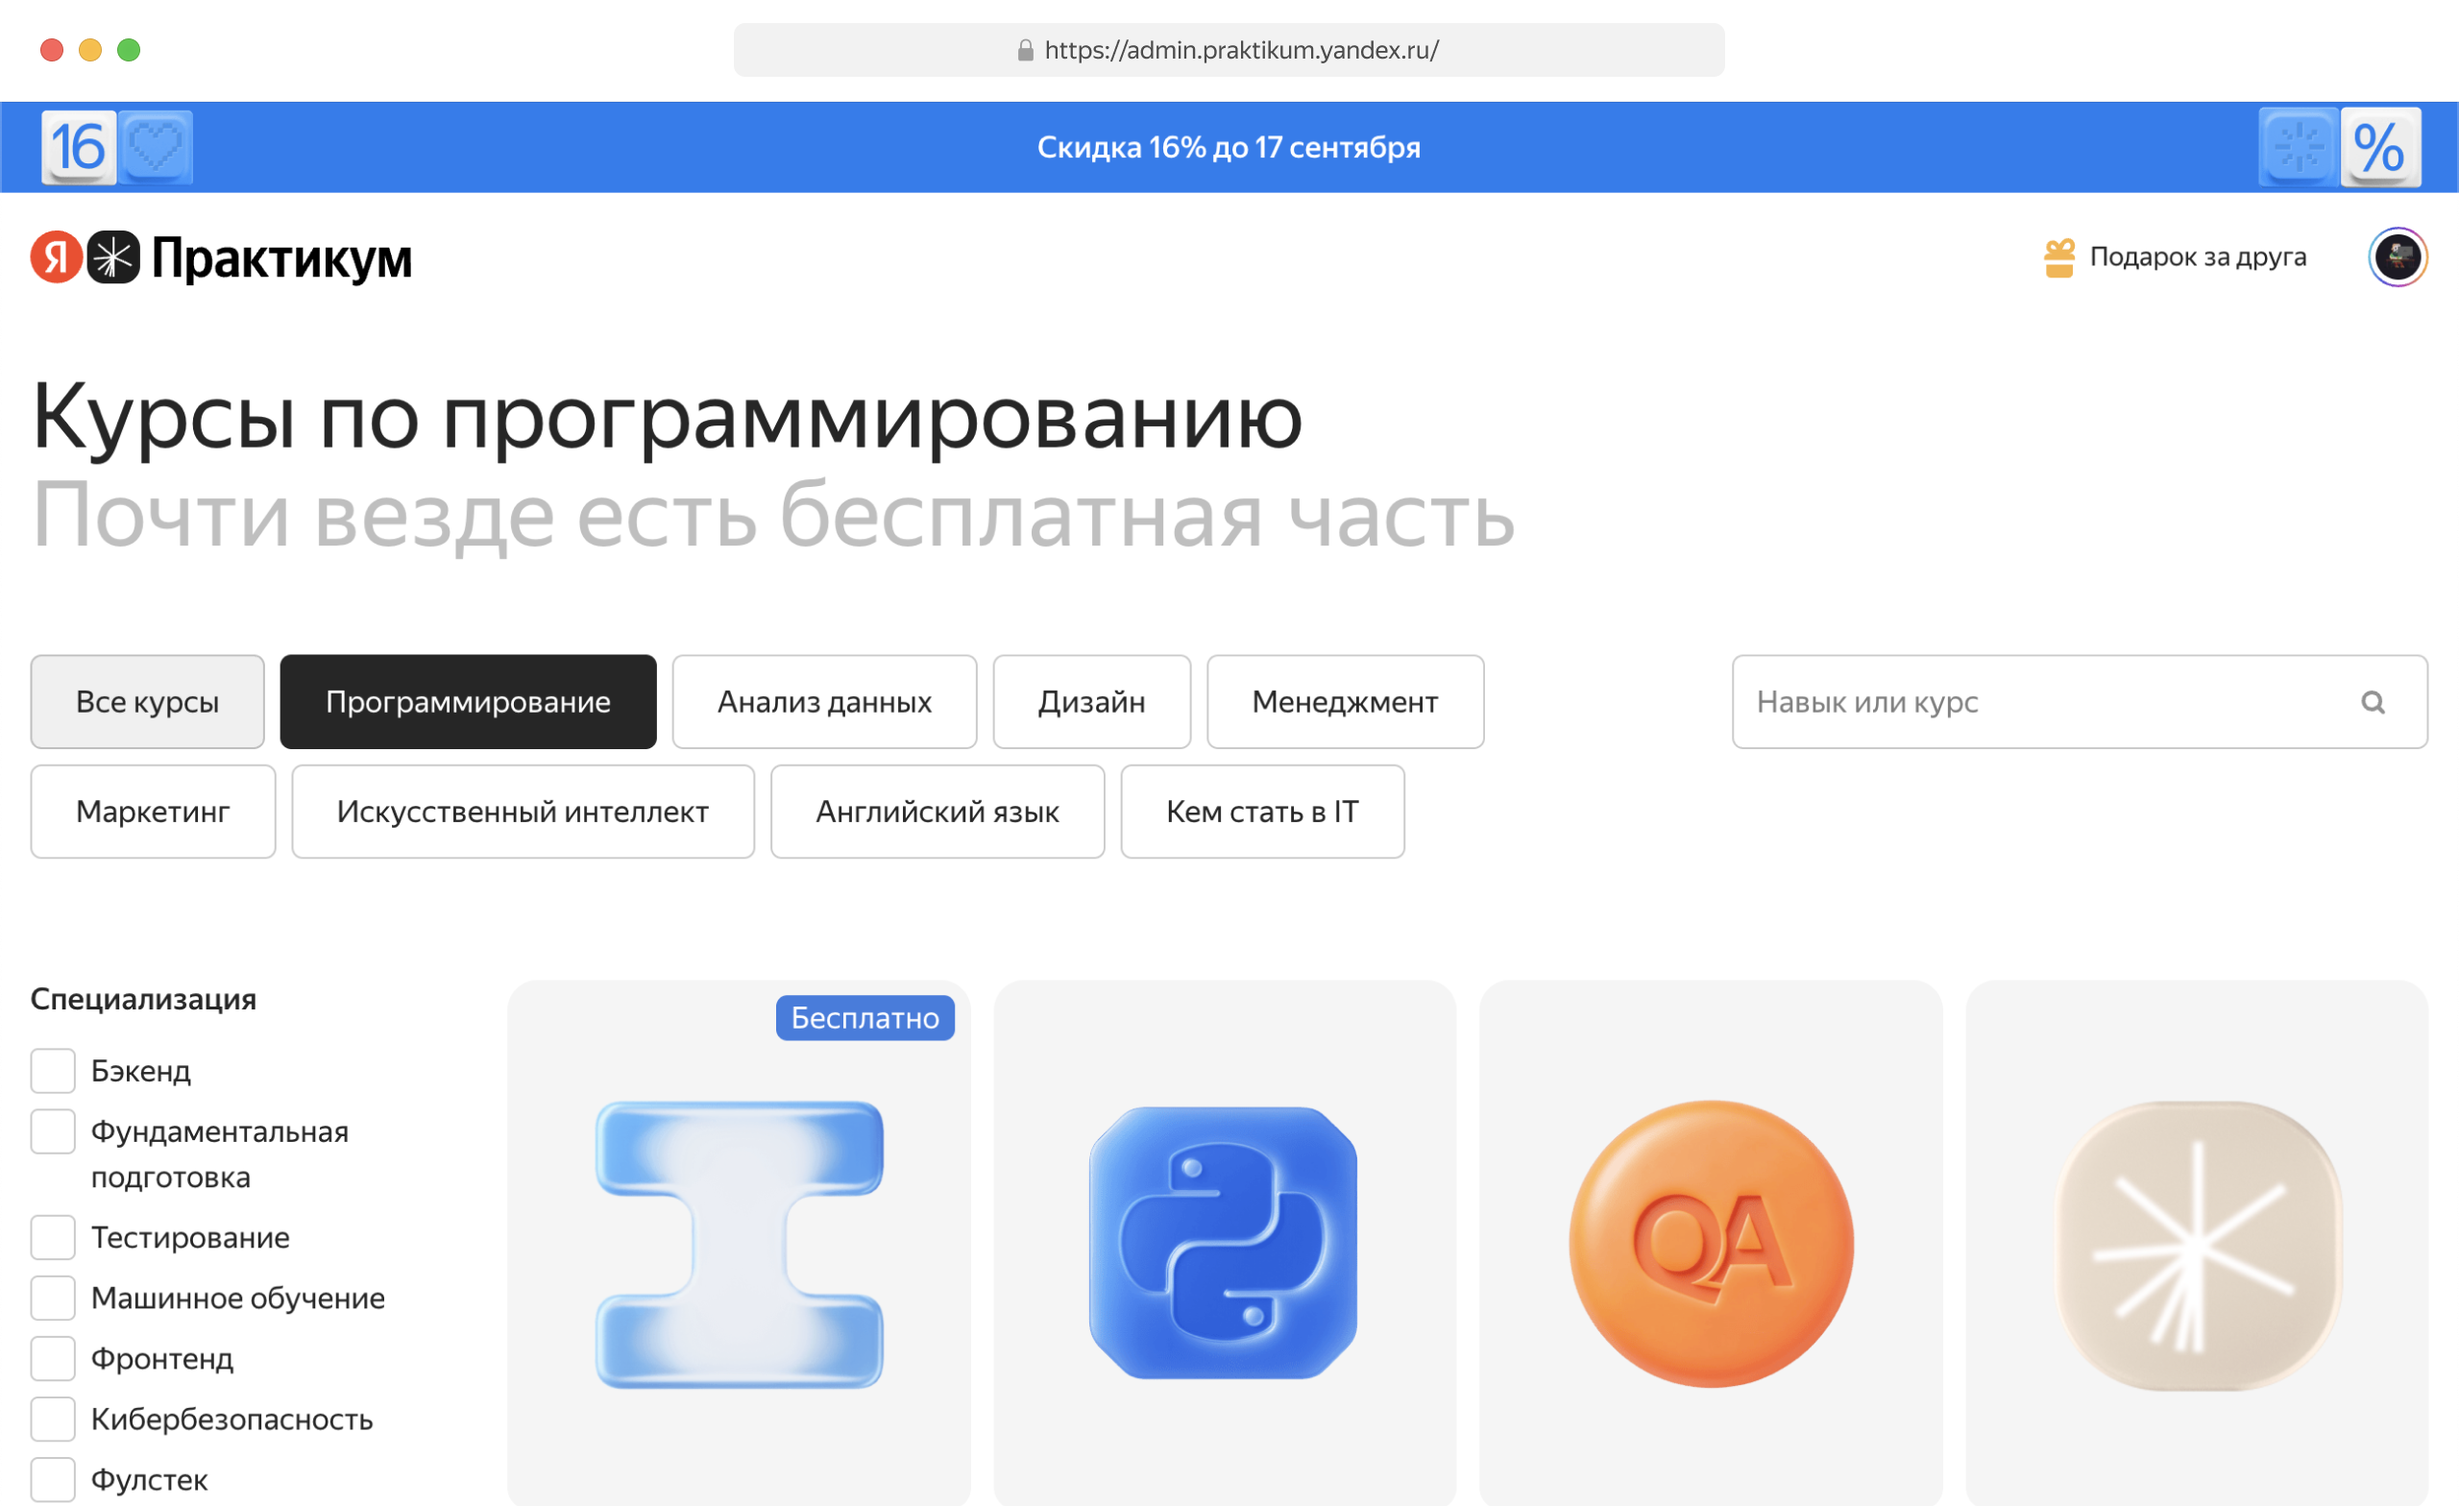
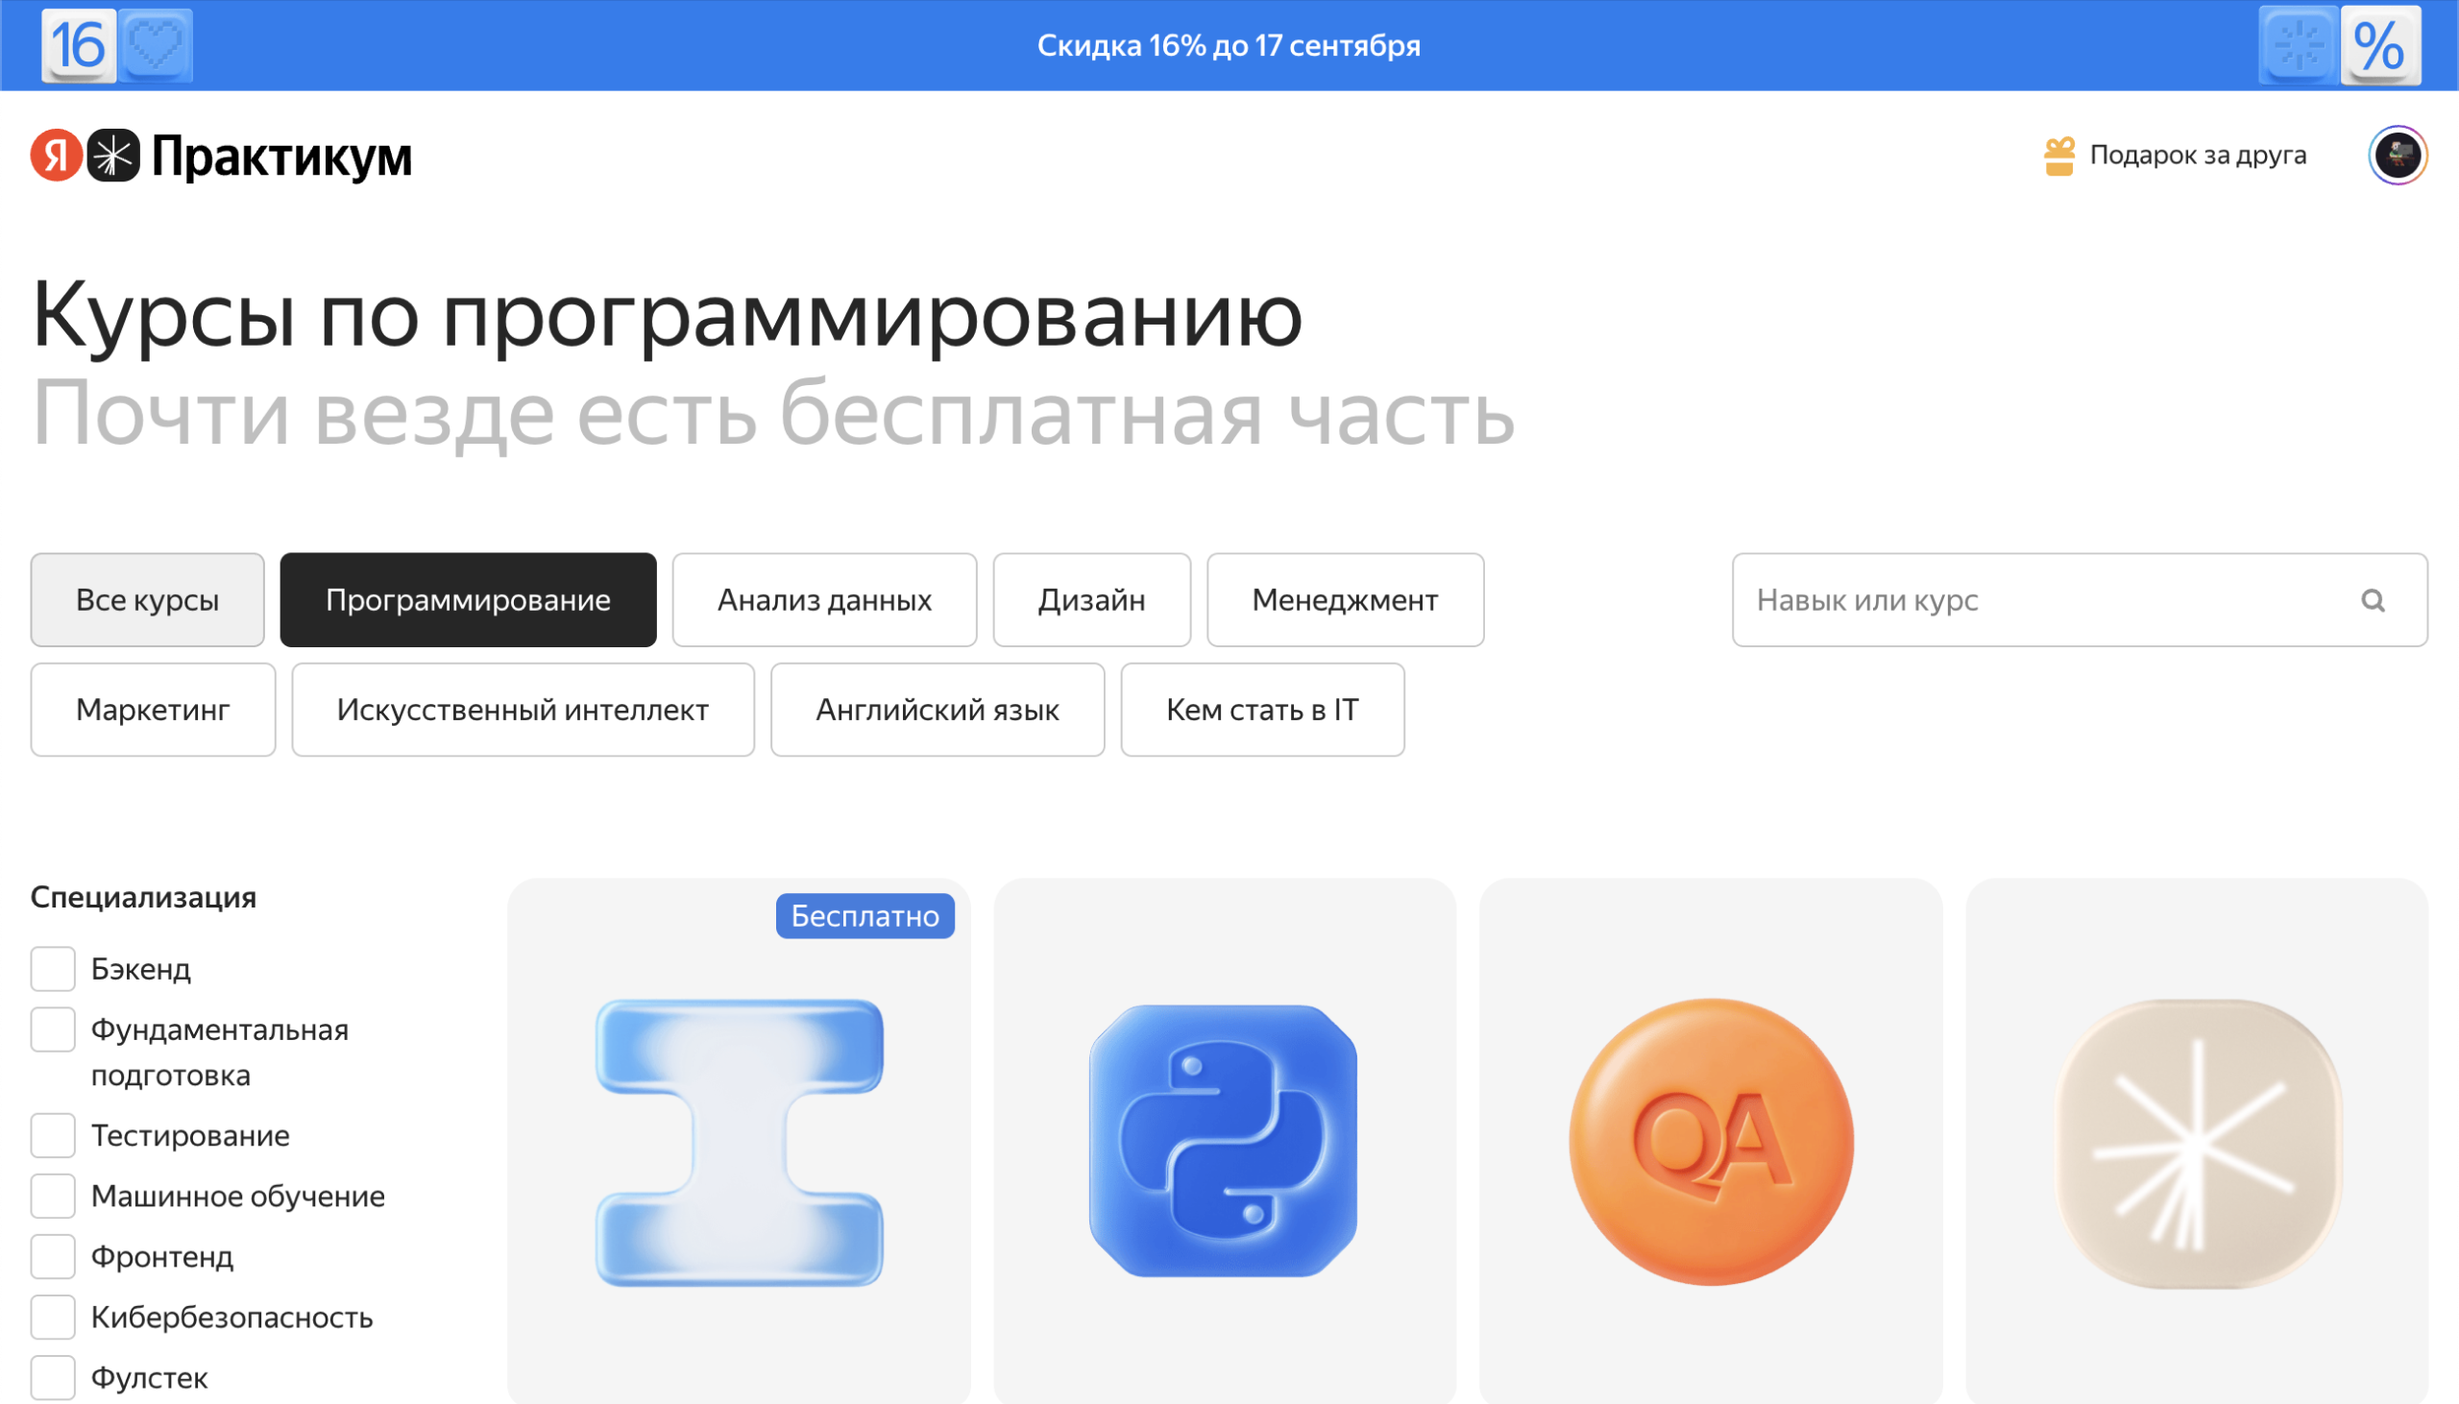
Refresh portfolio media assets

diff --git a/src/App.tsx b/src/App.tsx
@@ -8,6 +8,8 @@ function withBase(href: string) {
   return href.startsWith("/") ? `${basePath}${href}` : href;
 }
 
+const withMediaVersion = (src: string) => `${withBase(src)}?v=20260830-2`;
+
 function withoutBase(href: string) {
   if (!basePath) return href;
   if (href === basePath) return "/";
@@ -184,7 +186,7 @@ function Project({ project }: { project: (typeof projects)[number] }) {
             href={href}
             ariaLabel={`Открыть проект ${project.title}`}
           >
-            <img className="project-cover-single" src={withBase(project.image)} alt={`Интерфейс проекта ${project.title}`} />
+            <img className="project-cover-single" src={withMediaVersion(project.image)} alt={`Интерфейс проекта ${project.title}`} />
           </InternalLink>
           <ReactionBar projectSlug={project.slug} variant="compact" />
         </div>
@@ -225,9 +227,9 @@ function HomePage() {
         <div className="intro-content">
           <h1 id="intro-title">Старший продуктовый дизайнер с опытом более 10 лет. Работал в ПИК, Яндексе и MadRobots. Развиваю цифровые продукты: проверяю гипотезы, работаю с метриками, выстраиваю дизайн-процессы и внедряю ИИ.</h1>
           <ul className="company-logos" aria-label="Компании, в которых я работал">
-            <li><a className="company-logo" data-company="ПИК" href="https://pik-arenda.ru/" target="_blank" rel="noreferrer" aria-label="ПИК"><img src={withBase("/projects/Pik.png")} alt="" /></a></li>
-            <li><a className="company-logo" data-company="Яндекс" href="https://practicum.yandex.ru/" target="_blank" rel="noreferrer" aria-label="Яндекс"><img src={withBase("/projects/Yandex.png")} alt="" /></a></li>
-            <li><a className="company-logo" data-company="MadRobots" href="https://madrobots.ru" target="_blank" rel="noreferrer" aria-label="MadRobots"><img src={withBase("/projects/Madrobots.png")} alt="" /></a></li>
+            <li><a className="company-logo" data-company="ПИК" href="https://pik-arenda.ru/" target="_blank" rel="noreferrer" aria-label="ПИК"><img src={withMediaVersion("/projects/Pik.png")} alt="" /></a></li>
+            <li><a className="company-logo" data-company="Яндекс" href="https://practicum.yandex.ru/" target="_blank" rel="noreferrer" aria-label="Яндекс"><img src={withMediaVersion("/projects/Yandex.png")} alt="" /></a></li>
+            <li><a className="company-logo" data-company="MadRobots" href="https://madrobots.ru" target="_blank" rel="noreferrer" aria-label="MadRobots"><img src={withMediaVersion("/projects/Madrobots.png")} alt="" /></a></li>
           </ul>
         </div>
       </section>
@@ -323,12 +325,12 @@ function CasePage({ project }: { project: (typeof projects)[number] }) {
       {"video" in project && project.video ? (
         <HoverVideo
           className="case-cover case-cover--editor"
-          src={withBase(project.video)}
+          src={withMediaVersion(project.video)}
           ariaLabel={`Видео проекта ${project.title}`}
         />
       ) : project.image && (
-        <button className="case-cover-button" type="button" onClick={() => setLightboxImage({ src: withBase(project.image), alt: `Обложка проекта ${project.title}` })} aria-label={`Увеличить обложку проекта ${project.title}`}>
-          <img className={`case-cover${project.slug === "course-editor" ? " case-cover--editor" : ""}`} src={withBase(project.image)} alt={`Обложка проекта ${project.title}`} />
+        <button className="case-cover-button" type="button" onClick={() => setLightboxImage({ src: withMediaVersion(project.image), alt: `Обложка проекта ${project.title}` })} aria-label={`Увеличить обложку проекта ${project.title}`}>
+          <img className={`case-cover${project.slug === "course-editor" ? " case-cover--editor" : ""}`} src={withMediaVersion(project.image)} alt={`Обложка проекта ${project.title}`} />
         </button>
       )}
 
@@ -346,8 +348,8 @@ function CasePage({ project }: { project: (typeof projects)[number] }) {
               </div>
               {sectionImage ? (
                 <figure className="case-section-figure">
-                  <button className="case-section-image-button" type="button" onClick={() => setLightboxImage({ src: withBase(sectionImage), alt: `Изображение раздела «${section.title}»` })} aria-label={`Увеличить изображение раздела «${section.title}»`}>
-                    <img className="case-section-image" src={withBase(sectionImage)} alt={`Изображение раздела «${section.title}»`} />
+                  <button className="case-section-image-button" type="button" onClick={() => setLightboxImage({ src: withMediaVersion(sectionImage), alt: `Изображение раздела «${section.title}»` })} aria-label={`Увеличить изображение раздела «${section.title}»`}>
+                    <img className="case-section-image" src={withMediaVersion(sectionImage)} alt={`Изображение раздела «${section.title}»`} />
                   </button>
                   {sectionCaption && <figcaption>{sectionCaption}</figcaption>}
                 </figure>
